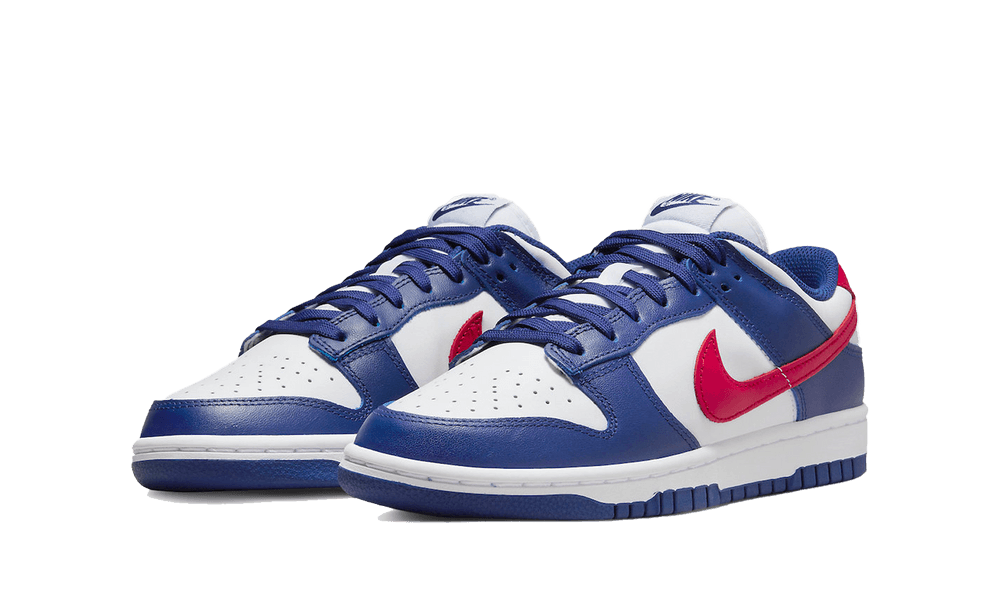
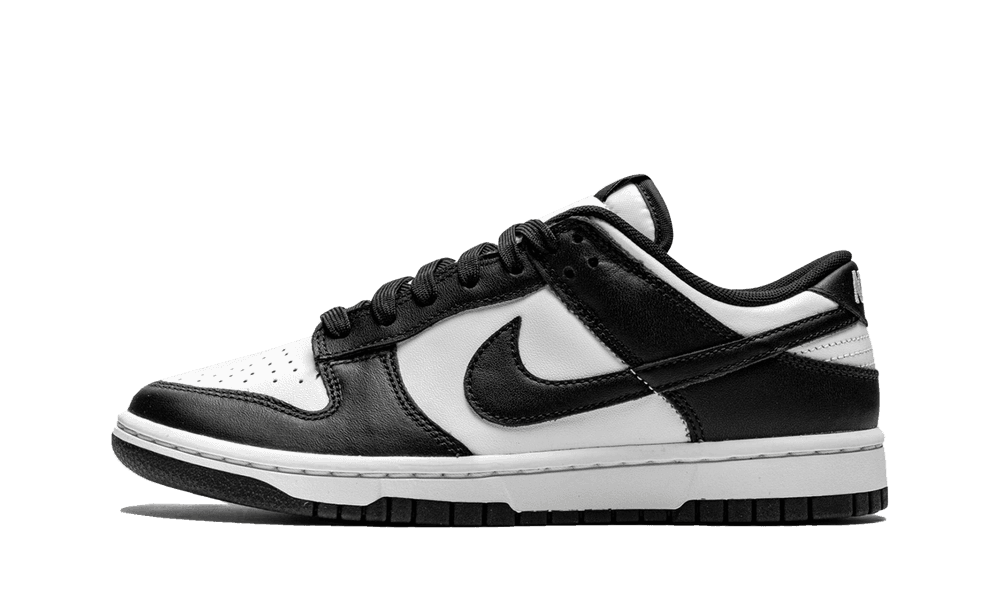
added the ability to change the image in the edit

Changed region(s): [[0.093, 0.27, 0.899, 0.9]]

diff --git a/Controllers/PostsController.cs b/Controllers/PostsController.cs
@@ -59,13 +59,27 @@ namespace csharp_blog_backend.Controllers
         // PUT: api/Posts/5
         // To protect from overposting attacks, see https://go.microsoft.com/fwlink/?linkid=2123754
         [HttpPut("{id}")]
-        public async Task<IActionResult> PutPost(int id, Post post)
+        public async Task<IActionResult> PutPost(int id,[FromForm] Post post)
         {
             if (id != post.Id)
                 return BadRequest();
-
+            FileInfo fileInfo = new FileInfo(post.File.FileName);
+            Guid g = Guid.NewGuid();
+            string fileName = g.ToString() + fileInfo.Extension;
+            string Image = Path.Combine(Directory.GetCurrentDirectory(), "wwwroot/Files");
+            string fileNameWithPath = Path.Combine(Image, fileName);
+            post.Image = "https://localhost:5000/Files/" + fileName;
+            //Save to Filesystem
+            using (var stream = new FileStream(fileNameWithPath, FileMode.Create))
+            {
+                post.File.CopyTo(stream);
+            }
+            //Save into DB
+            using (BinaryReader br = new BinaryReader(post.File.OpenReadStream()))
+            {
+                post.ImageBytes = br.ReadBytes((int)post.File.OpenReadStream().Length);
+            }
             _context.Entry(post).State = EntityState.Modified;
-
             try
             {
                 await _context.SaveChangesAsync();
@@ -87,7 +101,7 @@ namespace csharp_blog_backend.Controllers
         public async Task<ActionResult<Post>> PostPost([FromForm] Post post)
         {
             FileInfo fileInfo = new FileInfo(post.File.FileName);
-            Guid g = new Guid();
+            Guid g = Guid.NewGuid();
             string fileName = g.ToString() + fileInfo.Extension;
             
             string Image = Path.Combine(Directory.GetCurrentDirectory(), "wwwroot/Files");
